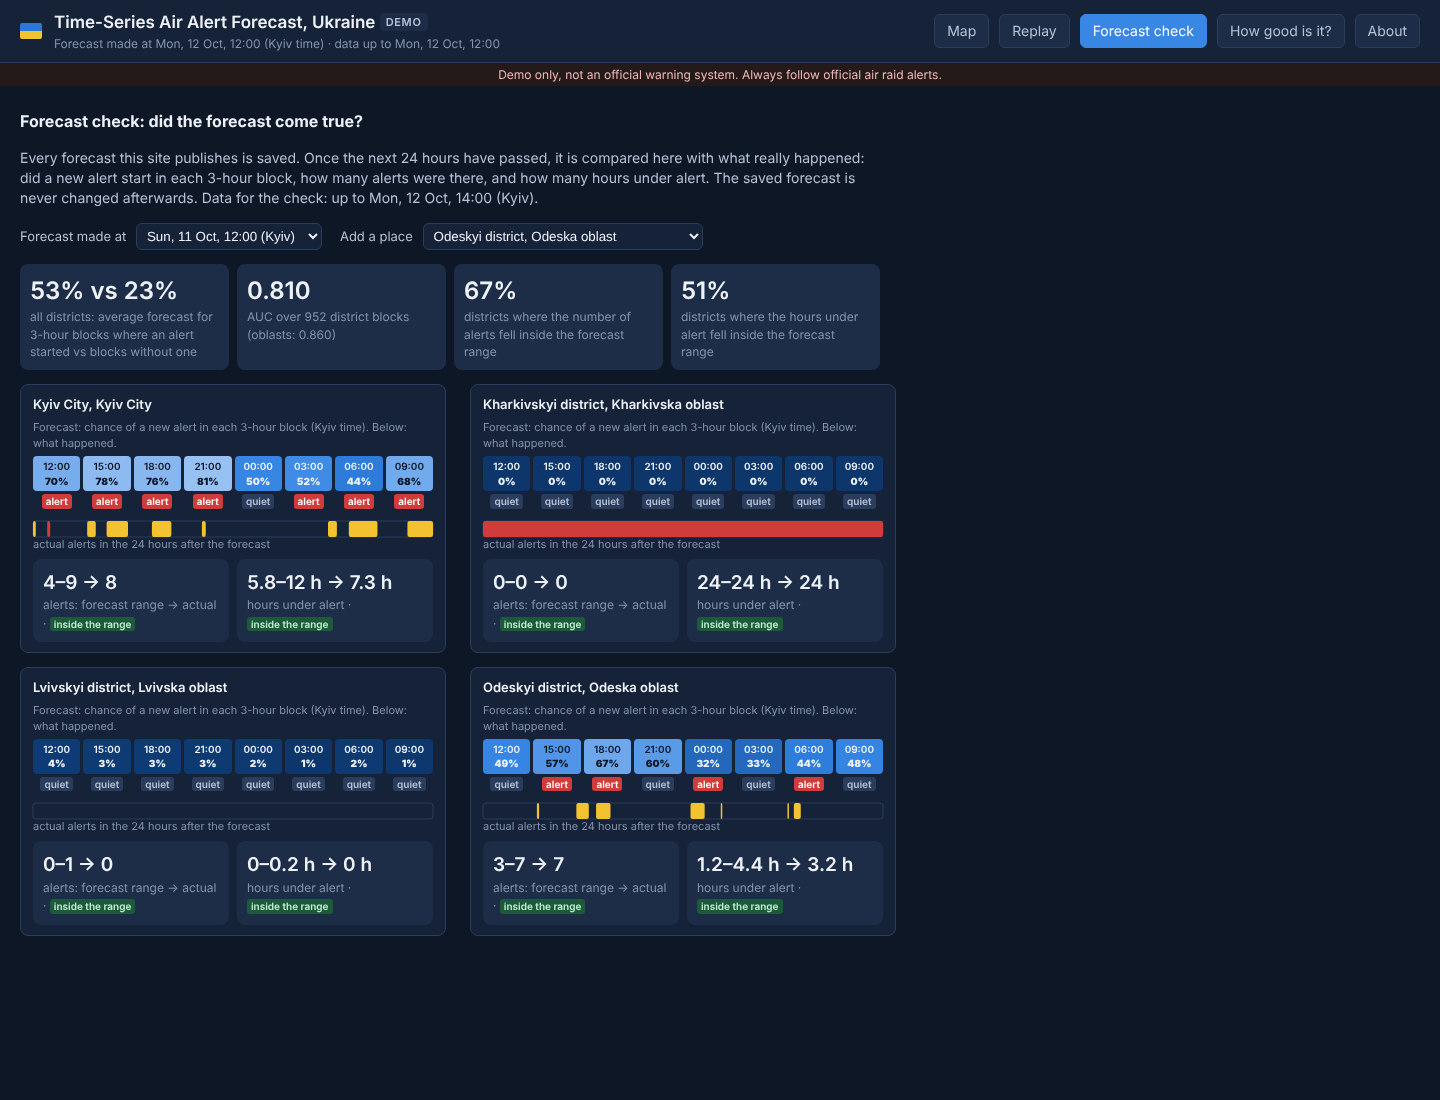
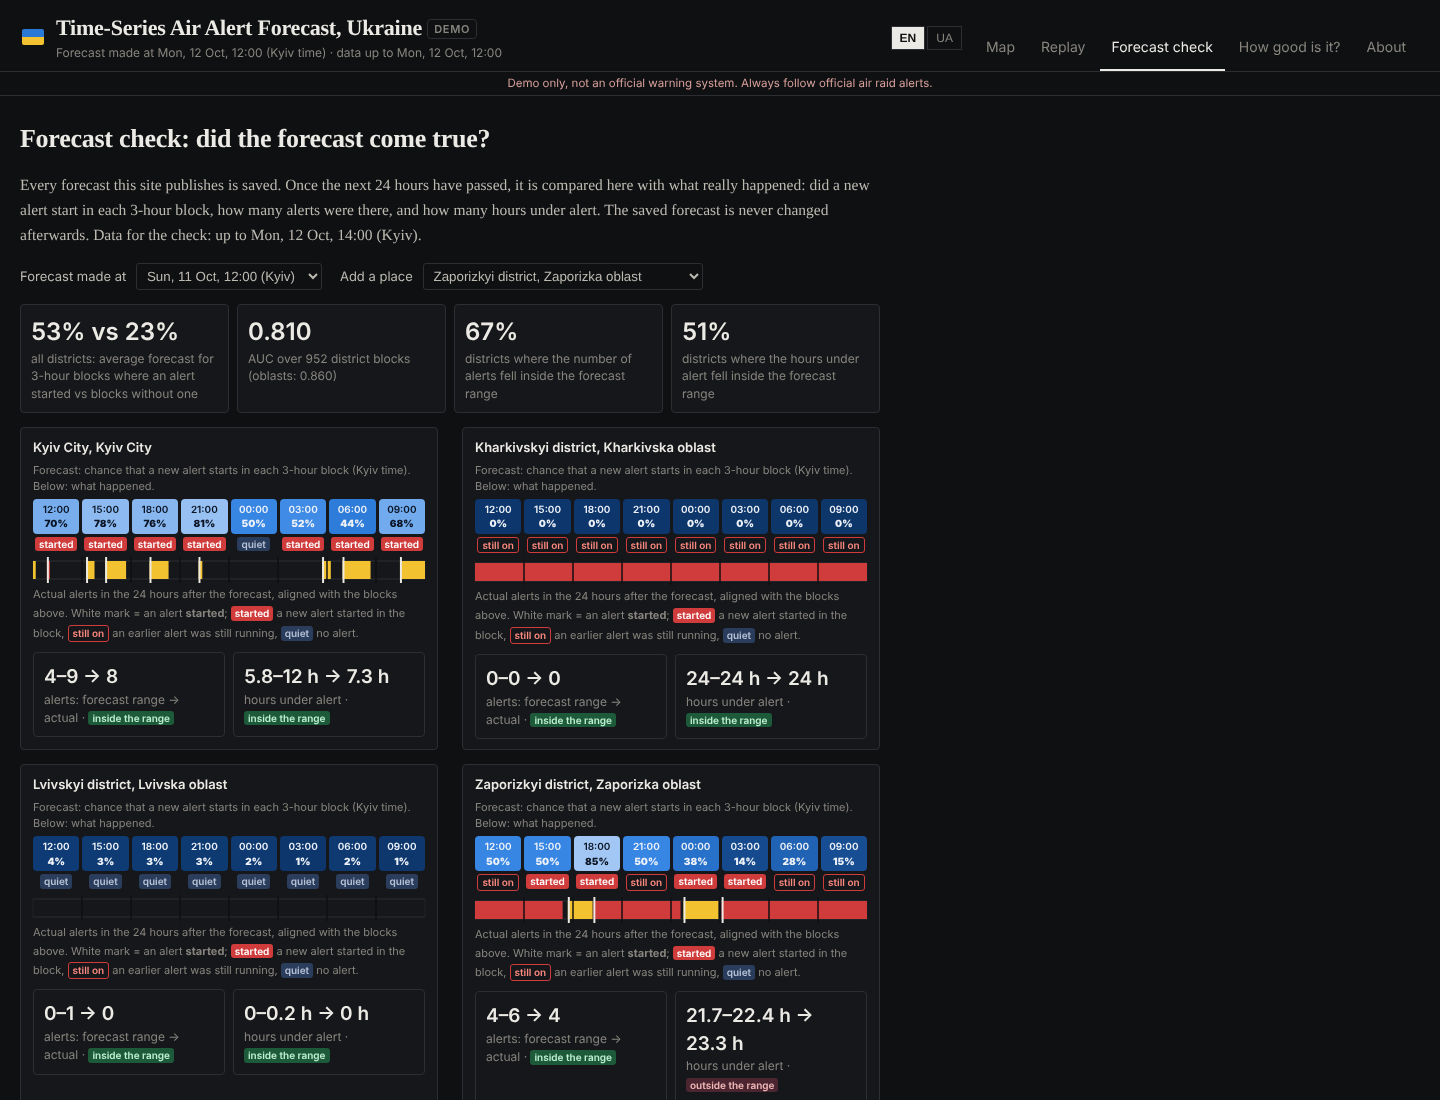
Forecast check: three block states (started / still on / quiet), timeline aligned with the blocks, start marks
Claude-Session: https://claude.ai/code/session_01GyBQi7RKiQhyCoUGm942Yq

diff --git a/site/app.js b/site/app.js
@@ -678,28 +678,36 @@ function checkCard(host, sn, lv, id) {
   const t0 = new Date(sn.forecast_time_utc).getTime();
   const box = el("div", { className: "chart" }, `<div class="ctitle">${unitName(id, lv)}</div>`);
   const cells = el("div", { className: "cells ck" });
+  const known = (new Date(sn.known_until_utc).getTime() - t0) / 6e4;
+  // per block: "new alert" (a new alert started), "still on" (no new start, but an earlier alert was running), "quiet"
+  const running = (i) => u.alerts.some(([a, e]) => a < (i + 1) * 180 && e > i * 180);
   sn.block_starts_utc.forEach((b, i) => {
     const p = u.next24[i], y = u.actual_blocks[i];
-    const mark = y == null ? `<span class="ckm unk">${T("not yet", "ще ні")}</span>` : y ? `<span class="ckm yes">${T("alert", "тривога")}</span>` : `<span class="ckm no">${T("quiet", "тихо")}</span>`;
+    const mark = y == null ? `<span class="ckm unk">${T("not yet", "ще ні")}</span>`
+      : y ? `<span class="ckm yes">${T("started", "нова")}</span>`
+      : running(i) ? `<span class="ckm on">${T("still on", "триває")}</span>` : `<span class="ckm no">${T("quiet", "тихо")}</span>`;
     const c = el("div", { className: "cell" }, `${fHour.format(new Date(b))}<b>${pct(p)}</b>`);
     c.style.background = rampColor(p); c.style.color = textOn(p);
     const w = el("div", { className: "ckcol" }); w.append(c); w.append(el("div", {}, mark)); cells.append(w);
   });
-  box.append(el("div", { className: "cnote" }, T("Forecast: chance of a new alert in each 3-hour block (Kyiv time). Below: what happened.", "Прогноз: ймовірність нової тривоги в кожному 3-годинному блоці (за Києвом). Нижче: що сталося.")));
+  box.append(el("div", { className: "cnote" }, T("Forecast: chance that a new alert starts in each 3-hour block (Kyiv time). Below: what happened.", "Прогноз: ймовірність, що нова тривога почнеться в кожному 3-годинному блоці (за Києвом). Нижче: що сталося.")));
   box.append(cells);
-  // 24 h timeline of the actual alerts
-  const W = 400, svg = svgEl("svg", { width: W, height: 34 }), x = (m) => (m / 1440) * W;
-  svg.append(svgEl("rect", { x: 0, y: 6, width: W, height: 16, rx: 3, fill: V.surface, stroke: V.line }));
-  u.alerts.forEach(([s, e, lvl]) => {
-    const r = svgEl("rect", { x: x(s), y: 6, width: Math.max(1.5, x(e) - x(s)), height: 16, rx: 2, fill: COL[lvl] || COL.unknown });
-    r.onmousemove = (ev) => showTip(ev, `${fDayTime.format(new Date(t0 + s * 6e4))} – ${fHour.format(new Date(t0 + e * 6e4))}${lvl === "red" || lvl === "yellow" ? `<br><span class="chip ${lvl}">${lvlName(lvl)}</span>` : ""}`);
+  // 24 h timeline of the actual alerts, drawn on the same 8 columns as the blocks; a white mark = an alert started
+  const W = 800, H = 26, x = (m) => (m / 1440) * W;
+  const svg = svgEl("svg", { viewBox: `0 0 ${W} ${H}`, width: "100%", height: H, preserveAspectRatio: "none", class: "cktl" });
+  svg.append(svgEl("rect", { x: 0, y: 4, width: W, height: 18, fill: V.surface, stroke: V.line }));
+  u.alerts.forEach(([a, e, lvl]) => {
+    const r = svgEl("rect", { x: x(a), y: 4, width: Math.max(2, x(e) - x(a)), height: 18, fill: COL[lvl] || COL.unknown });
+    r.onmousemove = (ev) => showTip(ev, `${fDayTime.format(new Date(t0 + a * 6e4))} – ${fHour.format(new Date(t0 + e * 6e4))}${lvl === "red" || lvl === "yellow" ? `<br><span class="chip ${lvl}">${lvlName(lvl)}</span>` : ""}${a === 0 ? `<br>${T("started before the forecast", "почалася до прогнозу")}` : ""}`);
     r.onmouseleave = () => (tip.hidden = true);
     svg.append(r);
   });
-  const known = (new Date(sn.known_until_utc).getTime() - t0) / 6e4;
-  if (known < 1440) svg.append(svgEl("rect", { x: x(known), y: 6, width: W - x(known), height: 16, fill: "#3a3f47", opacity: 0.85 }));  // not known yet
-  const lab = svgEl("text", { x: 0, y: 33 }); lab.textContent = T("actual alerts in the 24 hours after the forecast", "фактичні тривоги за 24 години після прогнозу"); svg.append(lab);
+  if (known < 1440) svg.append(svgEl("rect", { x: x(known), y: 4, width: W - x(known), height: 18, fill: "#3a3f47", opacity: 0.85 }));  // not known yet
+  for (let k = 1; k < 8; k++) svg.append(svgEl("line", { x1: k * 100, x2: k * 100, y1: 0, y2: H, stroke: V.bg, "stroke-width": 3 }));
+  u.alerts.forEach(([a]) => { if (a > 0) svg.append(svgEl("rect", { x: Math.min(x(a), W - 4), y: 0, width: 4, height: H, fill: V.text })); });  // starts, drawn on top
   box.append(svg);
+  box.append(el("div", { className: "cnote" }, T(`Actual alerts in the 24 hours after the forecast, aligned with the blocks above. White mark = an alert <b>started</b>; <span class="ckm yes">started</span> a new alert started in the block, <span class="ckm on">still on</span> an earlier alert was still running, <span class="ckm no">quiet</span> no alert.`,
+    `Фактичні тривоги за 24 години після прогнозу, вирівняні з блоками вгорі. Біла позначка = тривога <b>почалася</b>; <span class="ckm yes">нова</span> у блоці почалася нова тривога, <span class="ckm on">триває</span> ще тривала попередня, <span class="ckm no">тихо</span> тривоги не було.`)));
   const ok = (v, r) => (v == null ? `<span class="ckm unk">${T("not yet known", "ще невідомо")}</span>` : v >= r[0] && v <= r[1] ? `<span class="ckm yes2">${T("inside the range", "у діапазоні")}</span>` : `<span class="ckm out">${T("outside the range", "поза діапазоном")}</span>`);
   const hU = T("h", "год");
   box.append(el("div", { className: "tiles" }, `

diff --git a/site/style.css b/site/style.css
@@ -244,3 +244,6 @@ html[data-theme="noir"] .hover, html[data-theme="noir"] .strip-tip { background:
 .toprisk button span:first-child { font-size: 14px; }
 .now-on { display: inline-block; background: #d03b3b; color: #fff; font-size: 11px; font-weight: 600; padding: 2px 7px; border-radius: 3px; }
 .now-on.big { display: block; font-size: 12.5px; padding: 6px 9px; margin-top: 10px; font-weight: 500; }
+.ckm.on { background: transparent; color: #ff8a80; border: 1px solid #d03b3b; }
+.cktl { display: block; margin-top: 2px; }
+.ckm { white-space: nowrap; }
